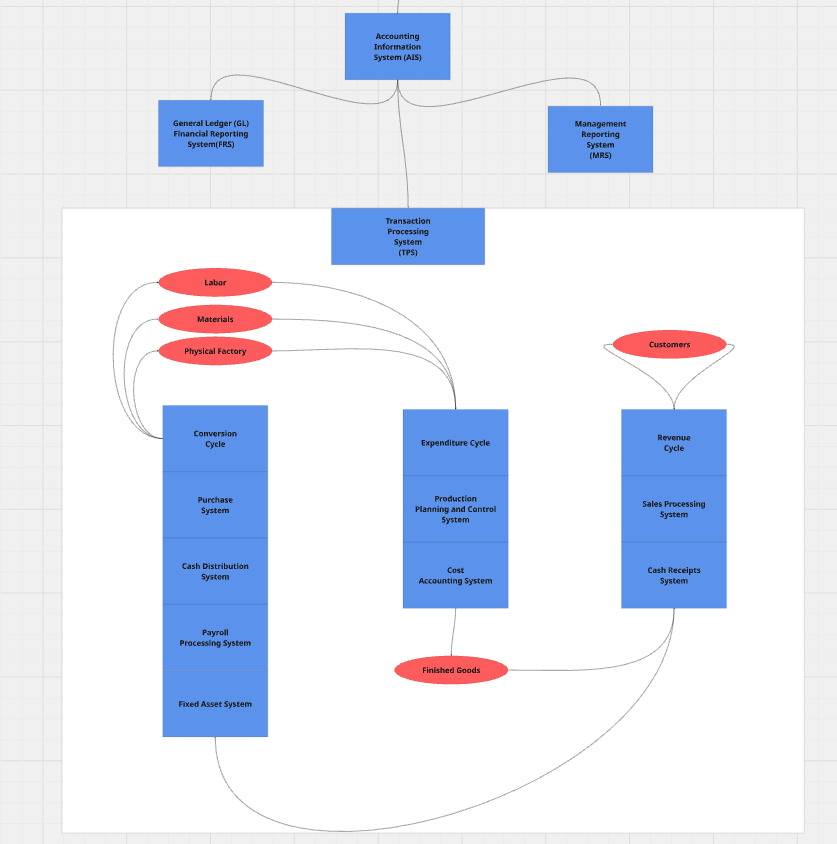
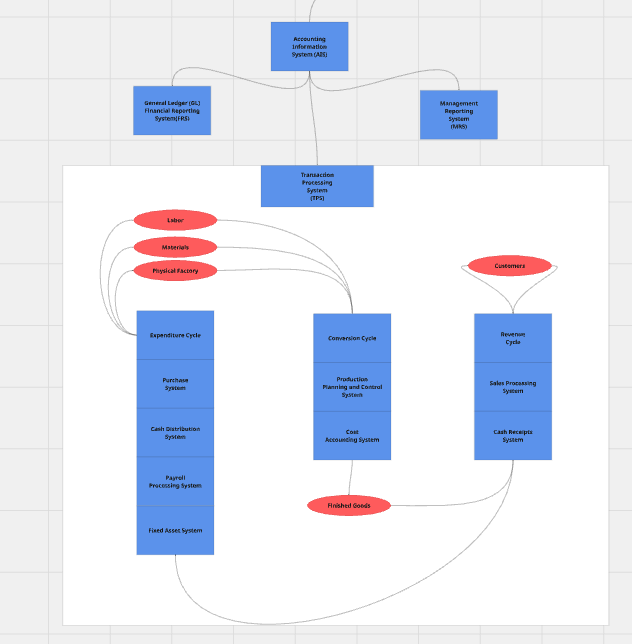
update with Revenue Cycle Subsystems

diff --git a/README.md b/README.md
@@ -14,21 +14,83 @@ The MIS is made up of four main subsystems the Financial Management Systems, Mar
 
 ## Accounting Information System
 ### General Ledger/Financial Reporting System (GL/FRS)
+The General Ledger consists of the main Database that stores all Financial Information related to the TPS and it's Subsystems. Which is then updated via the GL Dept. by the General Ledger Function. 
+
 ### Transaction Processing System (TPS)
+The TPS consists of Financial and Non-Financial Information and updates the General Ledger via Journal Vouchers which are Batches of Periodic Financial Information. 
+
 ### Management Reporting System (MRS)
+The MRS Subsystem creates various Financial Documents such as the Balance Sheet, the Statement of Cash Flow and the Income Statement based on the changes in the A/R, A/P, and other Dept. Accounts. Theses Nondiscretionary Reporting Documents are signed off by the CEO, CFO based on the SEC's SOX Section 302. Theses Variance Reports are vital Documents required by the SEC for Publicly trading companies for their 10Ks and 10Qs. 
 
 ## Management Information System (MIS)
-### Financial Management Systems
-### Marketing Systems 
-### Distribution Systems 
-### Human Resource System
+The MIS consists mainly of reference files which are then referenced by the TPS such as valid vendor files, and suppliers, as well as other non-financial documents that are required by the TPS to complete various Functions within the TPS. 
 
+### Financal Management Systems
+- Portfolio Management Systems
+- Capital Budgeting Systems
+
+### Marketing Systems
+- Market Analysis
+- New Product Development
+- Product Analysis
+
+### Distribution Systems
+- Warehouse Organization and Scheduling
+- Delivery Scheduling
+- Vehicle Loading and Allocation Models
+
+### Human Resource Systems 
+- Human Resource Management Systems
+- Job Skill Tracking System
+- Employee Benefits System
 
 # Transaction Processing System (TPS)
+The TPS is an important Cycle within the AIS which is where most transaction processes happen within an organization. The TPS consists of three main Subsystems: the Expenditure Cycle, the Conversion Cycle and the Revenue Cycle. As well as where the various Depts. using various Function update other Depts. and eventually send Journal Vouchers to periodically batch update the GL. 
+
+## Revenue Cycle
+The Revenue Cycle consists of two main Subsystems the Sales Order Processing Subsystem, the Cash Receipts Subsystem. 
+
+### Sales Order Processing Subsystem Procedures
+This Subsystem entails the processing of customer orders, and fufillment of the order and the shipping process, and the billing, and the journalization of the transaction. 
+
+#### Receive Order
+Customer Order - Type, Quantity
+Transcription of customer order to sale order - name, address, acct#, order info (#, unit price, description)
+
+#### Check Credit
+Authorization from management to verify customer's credit on supplier file. 
+
+#### Pick Goods
+A Picking Ticket/Stock Release is issued to pick goods at the warehouse. 
+1. Then sends verified stock release to ship goods task.
+2. Back order record is kept on file until inventory is stocked.
+3. warehouse adjusts stock records to reduce inventory.
+
+#### Ship Goods
+The Packing Slip is generated, as well as a Shipping Notice. The Shipping Notice automatically begins the process in which the billing of the Customer can begin. 
+
+The reconcilation of the physical items with the Stock Release, Packing Slip, and the Shipping Notice. 
+
+The Bill of Lading is created which is the contract between the seller and the shipping vendor. 
+
+The Shipping Log is updated once shipped. The Shipping Notice and Stock Release Documents are forwarded to the customer as proof of shipment. 
+
+#### Billing Customer
+After the Shipping Notice is created the billing occures and generates an Sales Invoice. 
+
+#### AR Dept. and Accounts Receivable Function 
+The AR Dept Receives the Sales Invoice and updates their Accounts, and creates a Sales Journal Voucher at the end of the period, which is then sent to the GL via the General Ledger (GL) Function. 
+
+#### Inventory Control Function 
+The Inventory subsidiary ledger accounts within the TPS is updated from the information from the Stock Release Document. 
+
+#### General Ledger Function 
+The GL Function sends the Sales Journal Vouchers from AR, the Inventory Control Task, and the Account Summary and updates the GL.
+
 
 ## Expenditure Cycle
+
 ## Conversion Cycle 
-## Revenue Cycle 
 
 
 # Flowcharting 
